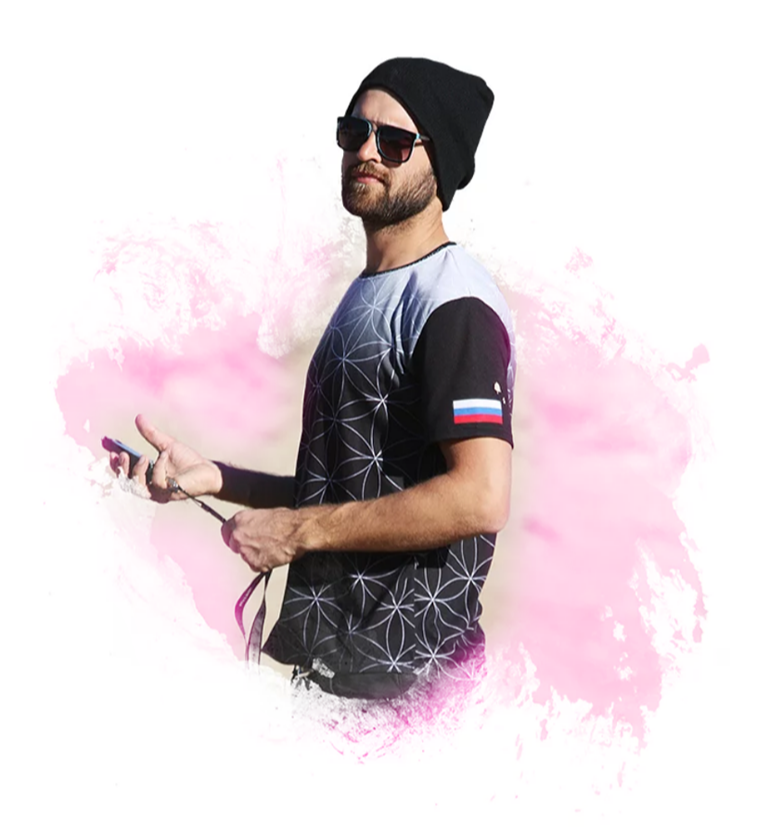
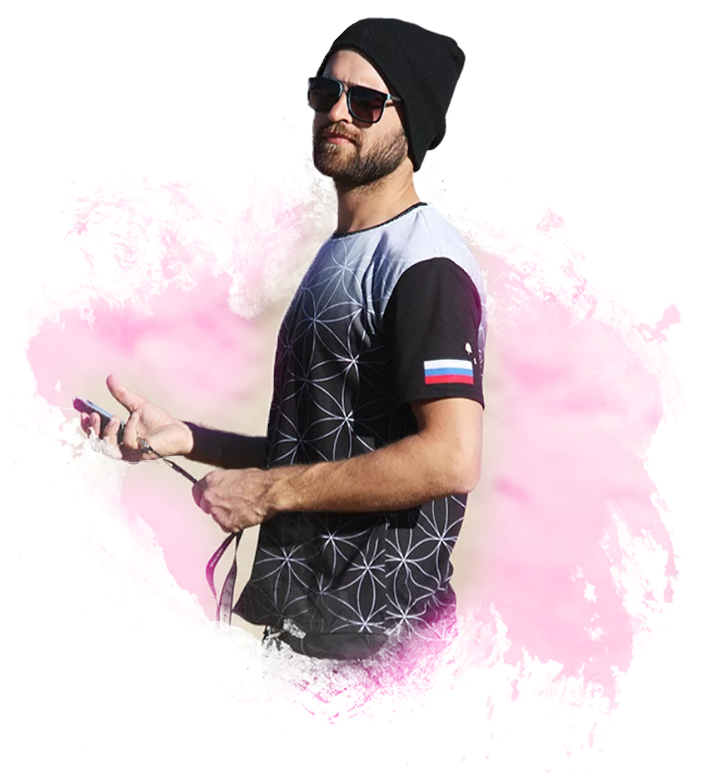
Добавляет картинку без фона

diff --git a/src/blocks/profile/index.tsx b/src/blocks/profile/index.tsx
@@ -25,6 +25,7 @@ export const Profile = () => {
 
     return (
         <section className={styles.profile}>
+            <div>
                 <blockquote className={styles.blockquote}>
                     <p className={styles.quote}>&Prime;{data.profile.quote}&Prime;</p>
                     <cite className={styles.cite}>{RenderLineBreaks(data.profile.author)}</cite>
@@ -32,8 +33,9 @@ export const Profile = () => {
                 <Text className={styles.description} tag='span'>
                     {RenderLineBreaks(data.profile.achievements)}
                 </Text>
+            </div>
+            <img className={styles.image} src="/img/profile/profile.png"  width="770" height="831" />
             <Button tag='a' href={data.profile.link} className={styles.button}>{data.profile.cta}</Button>
-            <Image className={styles.image} src={`/img/profile/${data.profile.img.id}.png`} alt={data.profile.img.alt} width="770" height="831" />
         </section>
     );
 };

diff --git a/src/blocks/profile/index.module.css b/src/blocks/profile/index.module.css
@@ -1,9 +1,6 @@
 .profile{
     padding: 0 2em;
-    position:relative;
-    display: flex;
-    flex-direction: column;
-    gap: 3.75em;
+    display: grid;
 }
 
 .blockquote{
@@ -12,26 +9,37 @@
 }
 
 .quote{
-    font-size: 3rem;
+    font-size: 2.4rem;
     margin-bottom: 17px;
 }
 
+@media (min-width: 600px){
+    .quote{
+        font-size: 2rem;
+    }
+}
+
 .cite{
-    font-size: 2.25rem;
+    font-size: 1.2rem;
     font-style: normal;
+}
+
+@media (min-width: 600px){
+    .cite{
+        font-size: 1.5rem;
+    }
 }
 
 .description{
     color: var(--text-secondary);
-    font-size: 2.25rem;
+    font-size: 1.2rem;
     grid-column-start: 1;
 }
 
-.image{
-    position:absolute;
-    z-index: -1;
-    right: 0;
-    top:0;
+@media (min-width: 600px){
+    .description{
+        font-size: 1.5rem;
+    }
 }
 
 .button{
@@ -58,4 +66,8 @@
     top:0;
     background: url("/profile-play.svg");
 
+}
+.image{
+    width:500px;
+    height: 550px;
 }
